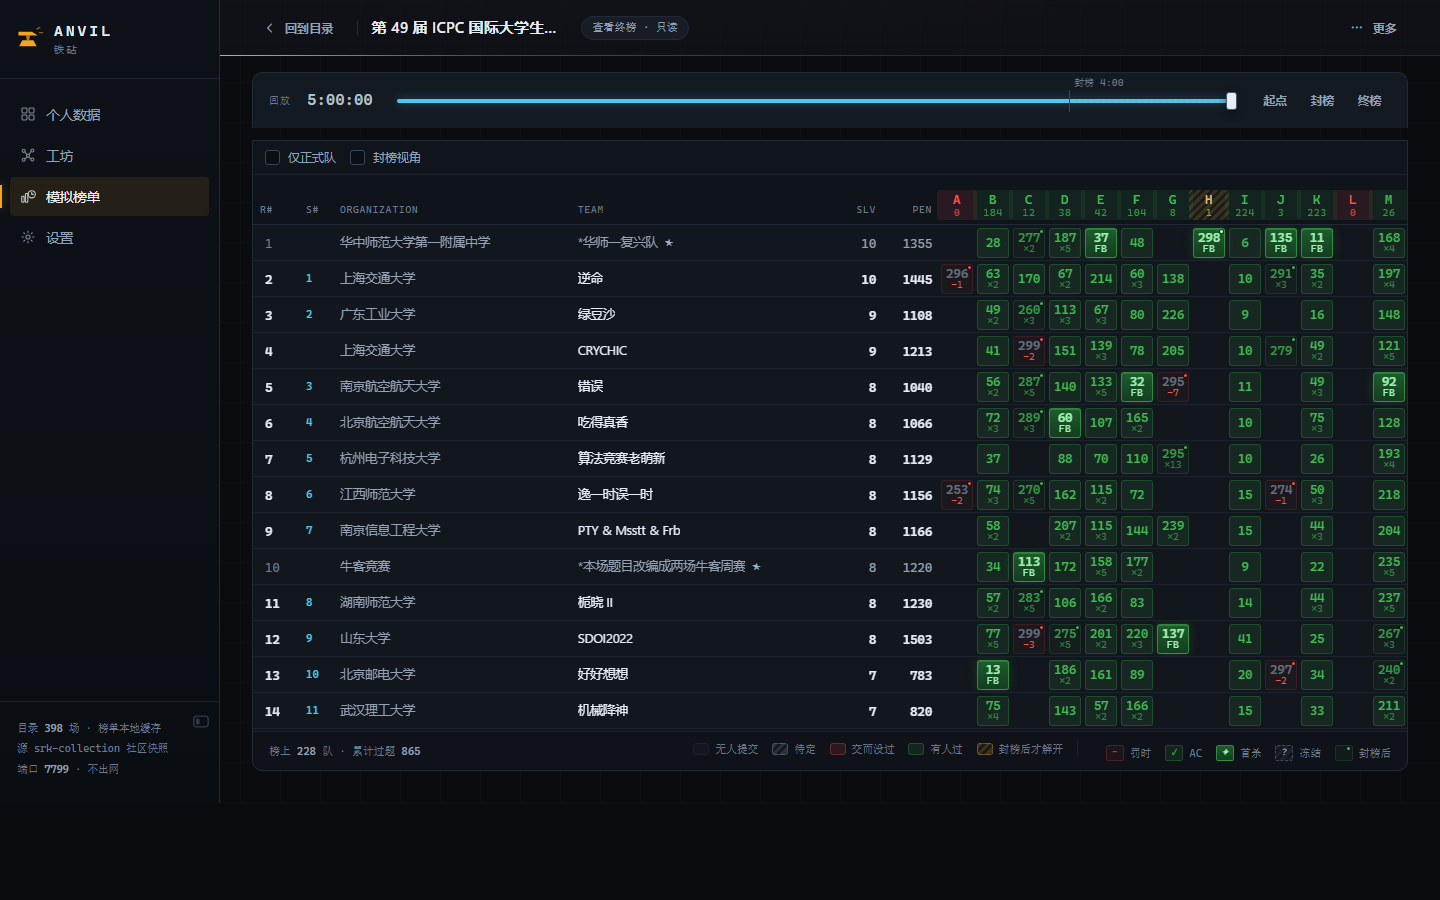
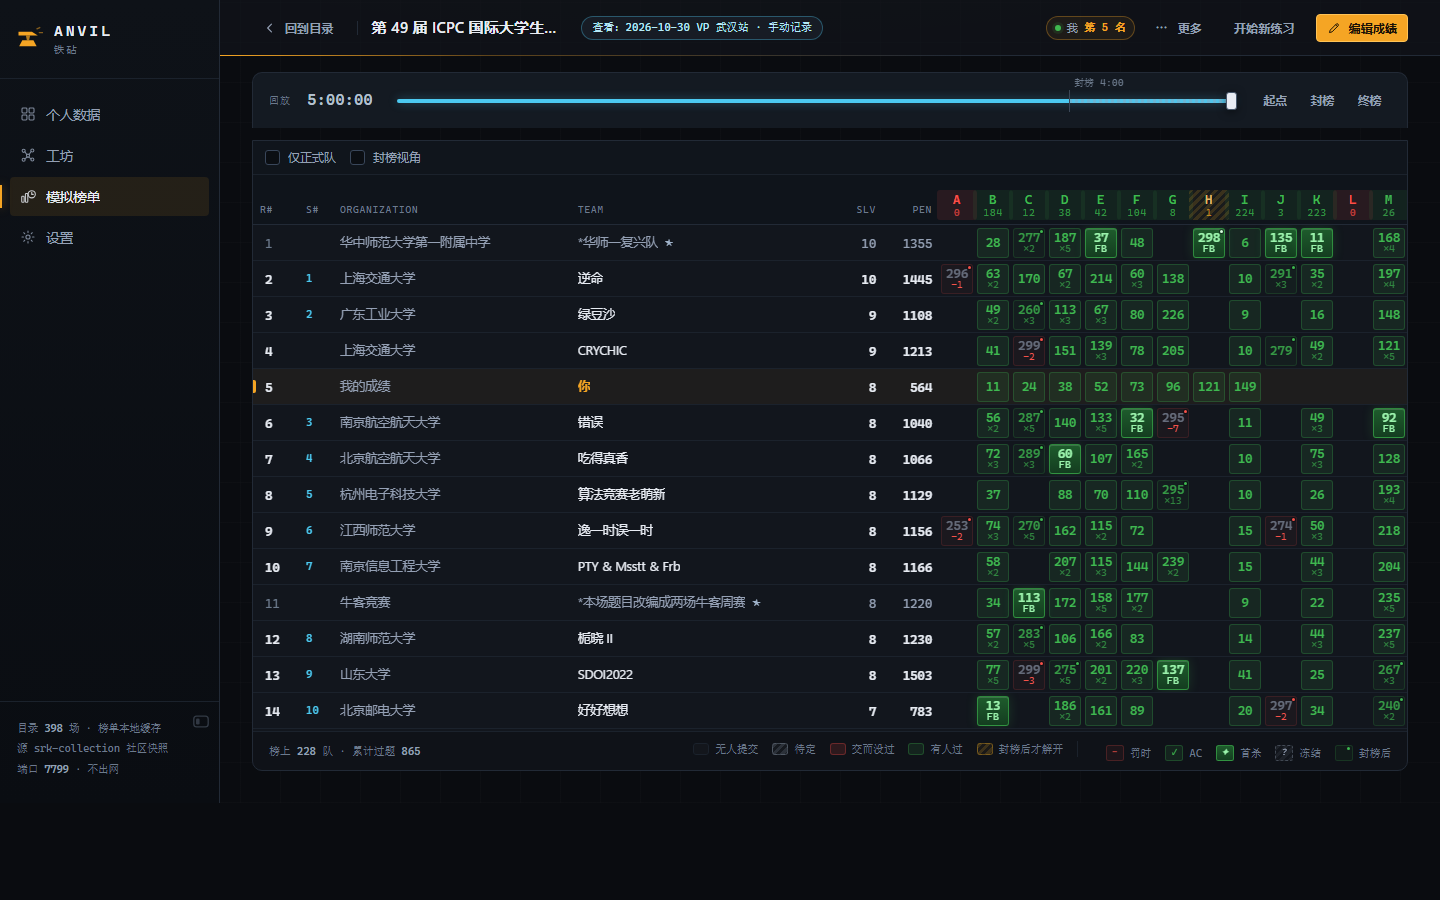
README：补充 VP 实时排名与成绩存档说明；换用带我的成绩行的榜单截图

diff --git a/README.md b/README.md
@@ -7,7 +7,7 @@
 ## 功能
 
 - **个人数据** —— CF / AT / XCPC 三源读数：活跃格子图、rating 曲线、提交统计、XCPC 档案长卷。
-- **模拟榜单** —— 按官方快照重建赛事目录与逐秒回放榜：计时、封榜定格、终局解封、我的成绩。
+- **模拟榜单** —— 按官方快照重建赛事目录与逐秒回放榜：计时、封榜定格、终局解封；在任意一场里逐发录入自己的 VP，实时计算当前排名（含封榜前后），结束后保存为本地 VP 记录，同场可保存多份、历史只读。
 - **工坊** —— 受管工作区：比赛 / 题组 / 模板 / 笔记；比赛可关联榜单、存 VP 成绩，并按题号记录「待补题 / 已补 / 已过 + 重点」。
 - **设置** —— handle 校验与保存、单源同步、XCPC 认领。
 
@@ -24,7 +24,7 @@
 
 `vault/` 是本地数据目录（SQLite、配置、榜单缓存），**不入库**；换机器时把它一并拷走即可。
 
-| 工坊 · 题目标记 | 模拟榜单 · 回放 |
+| 工坊 · 题目标记 | 模拟榜单 · VP 回放 |
 |---|---|
 | ![工坊](assets/screenshots/workbench.png) | ![模拟榜单](assets/screenshots/arena.png) |
 
@@ -35,7 +35,7 @@
 - **XCPC** —— heimaom.cn 静态导出（xcpcrating 社区快照，非官方）。
 - **赛事榜单快照** —— [algoux/srk-collection](https://github.com/algoux/srk-collection)（AGPL-3.0）：**仅在运行时拉取、不打包其代码或数据**，界面与页脚已署名。
 
-免责：个人自用的本地工具，只监听 `127.0.0.1`；上游数据的准确性以生成方为准。README 截图使用公开榜单数据与演示工作区，仅作展示。
+免责：个人自用的本地工具，只监听 `127.0.0.1`；上游数据的准确性以生成方为准。README 截图使用公开榜单数据、演示工作区与演示 VP 记录，仅作展示。
 
 ## 常见问题
 
